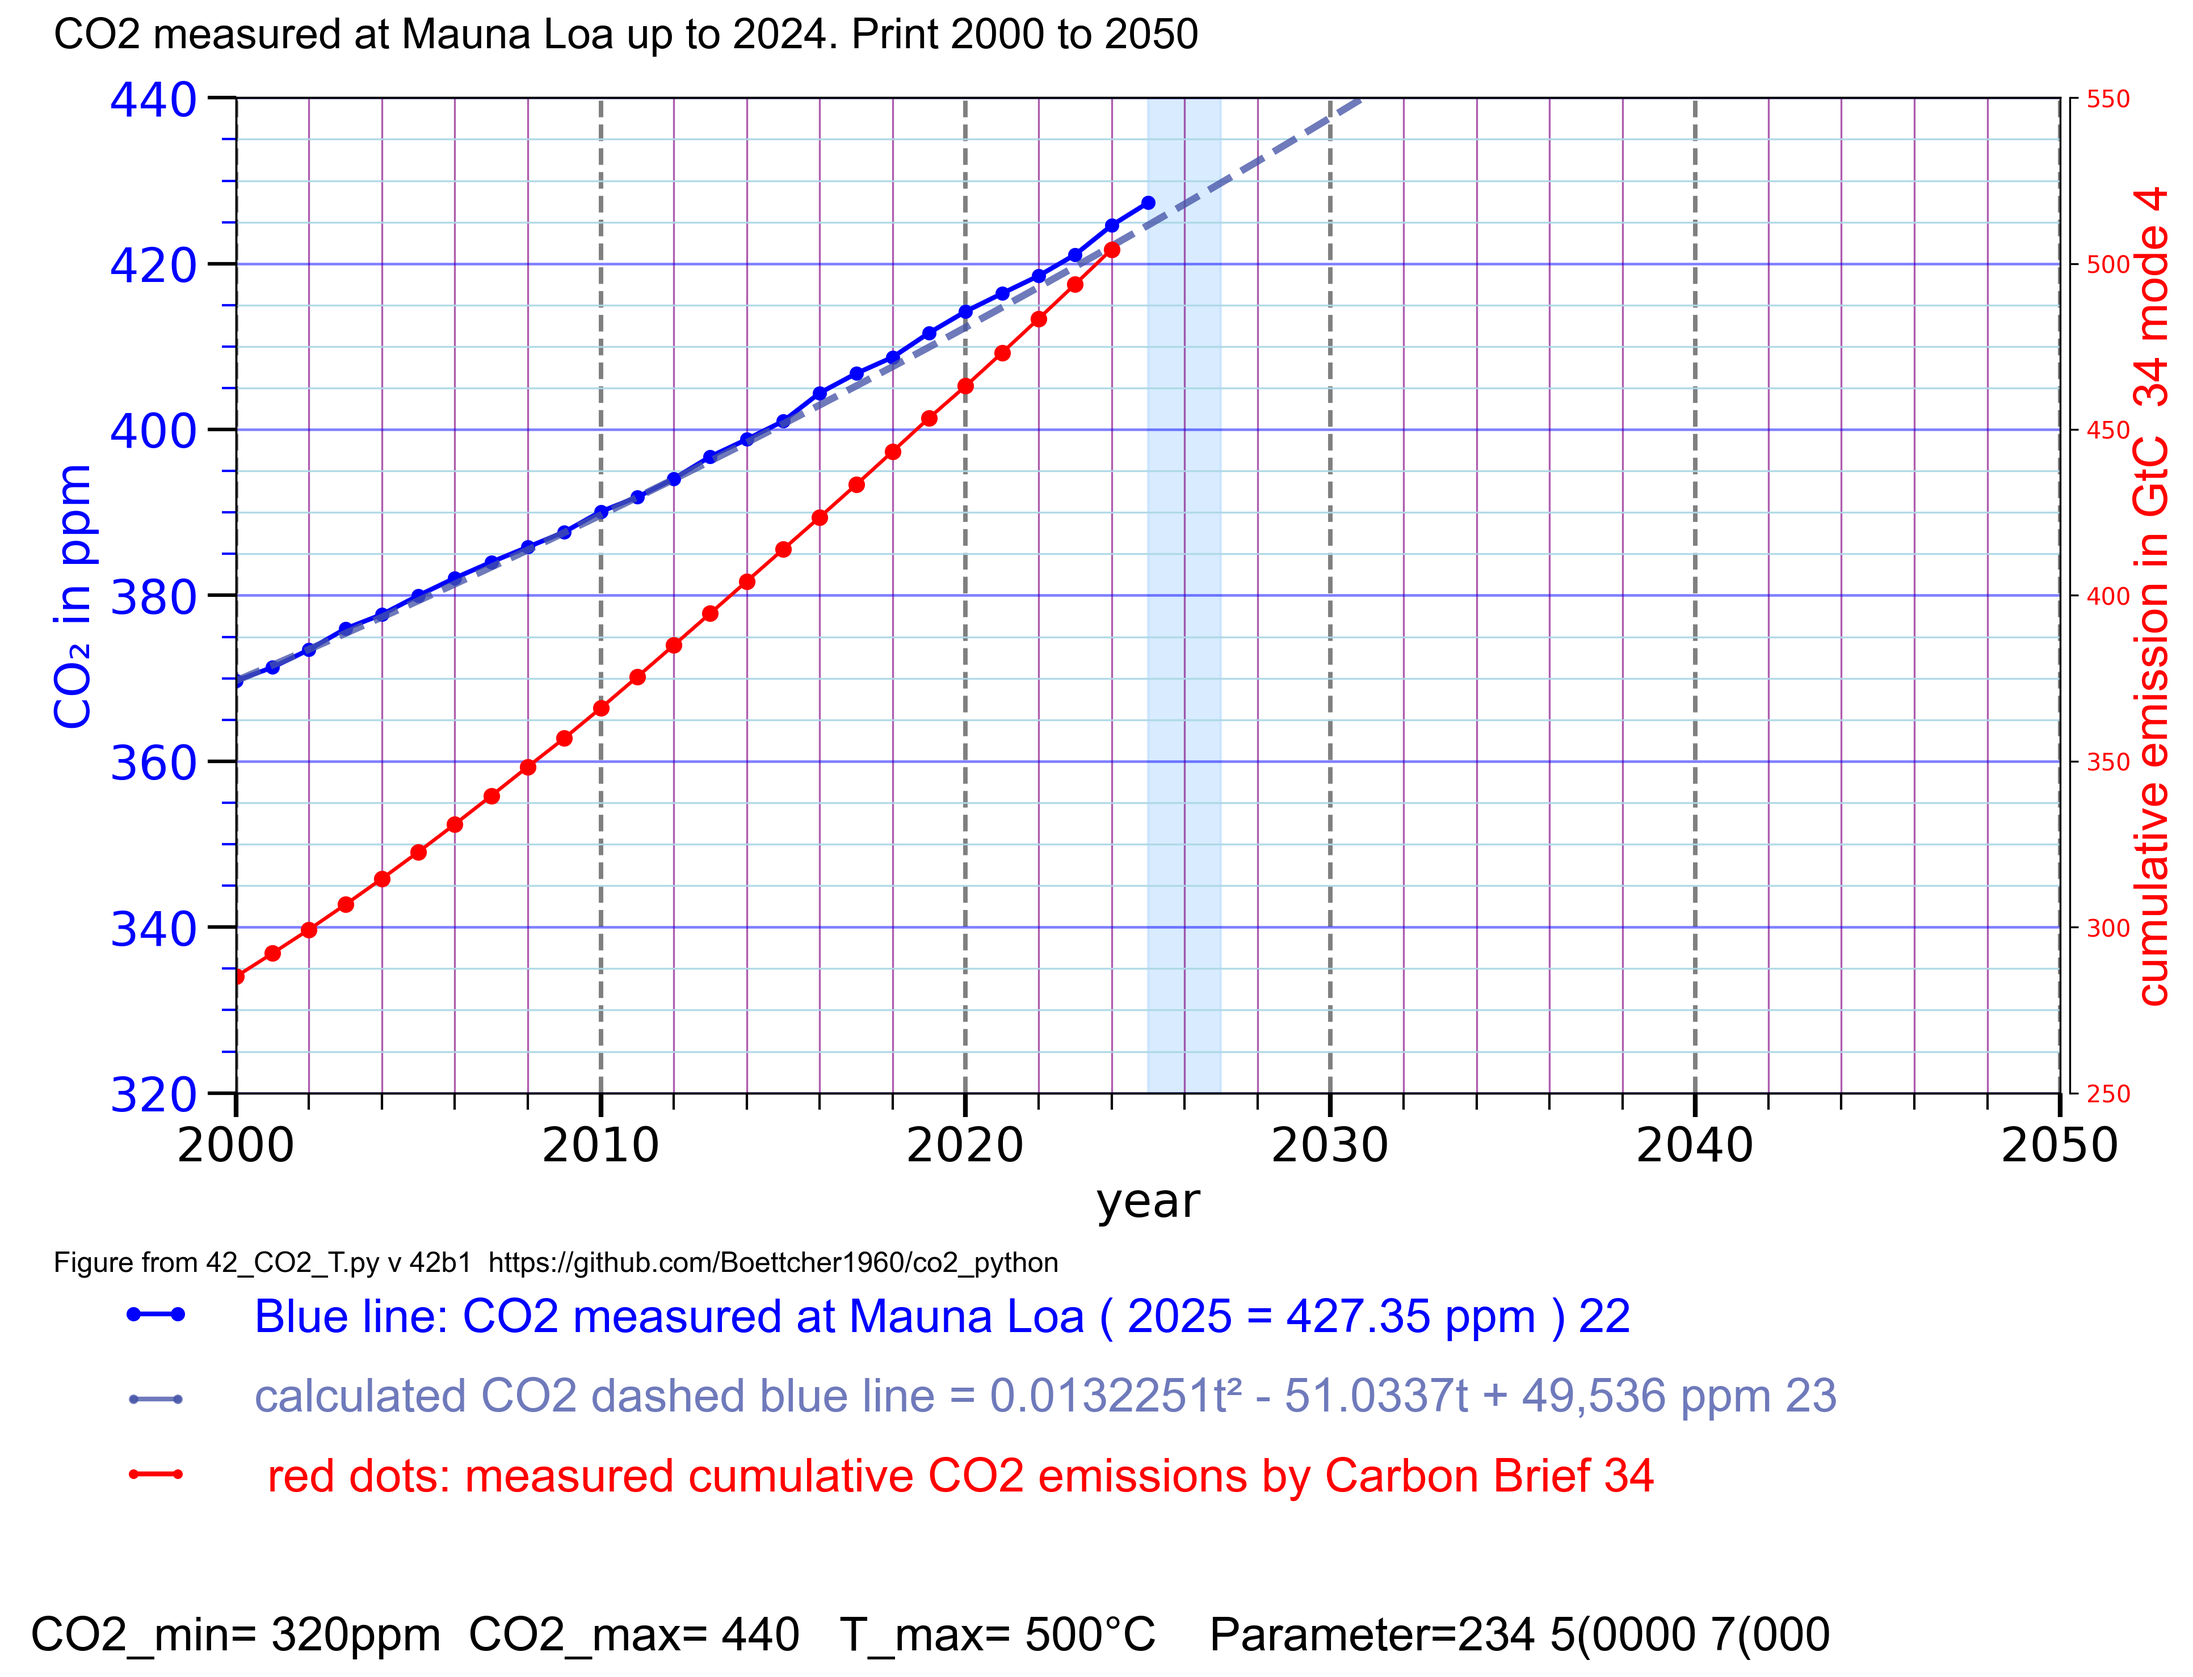
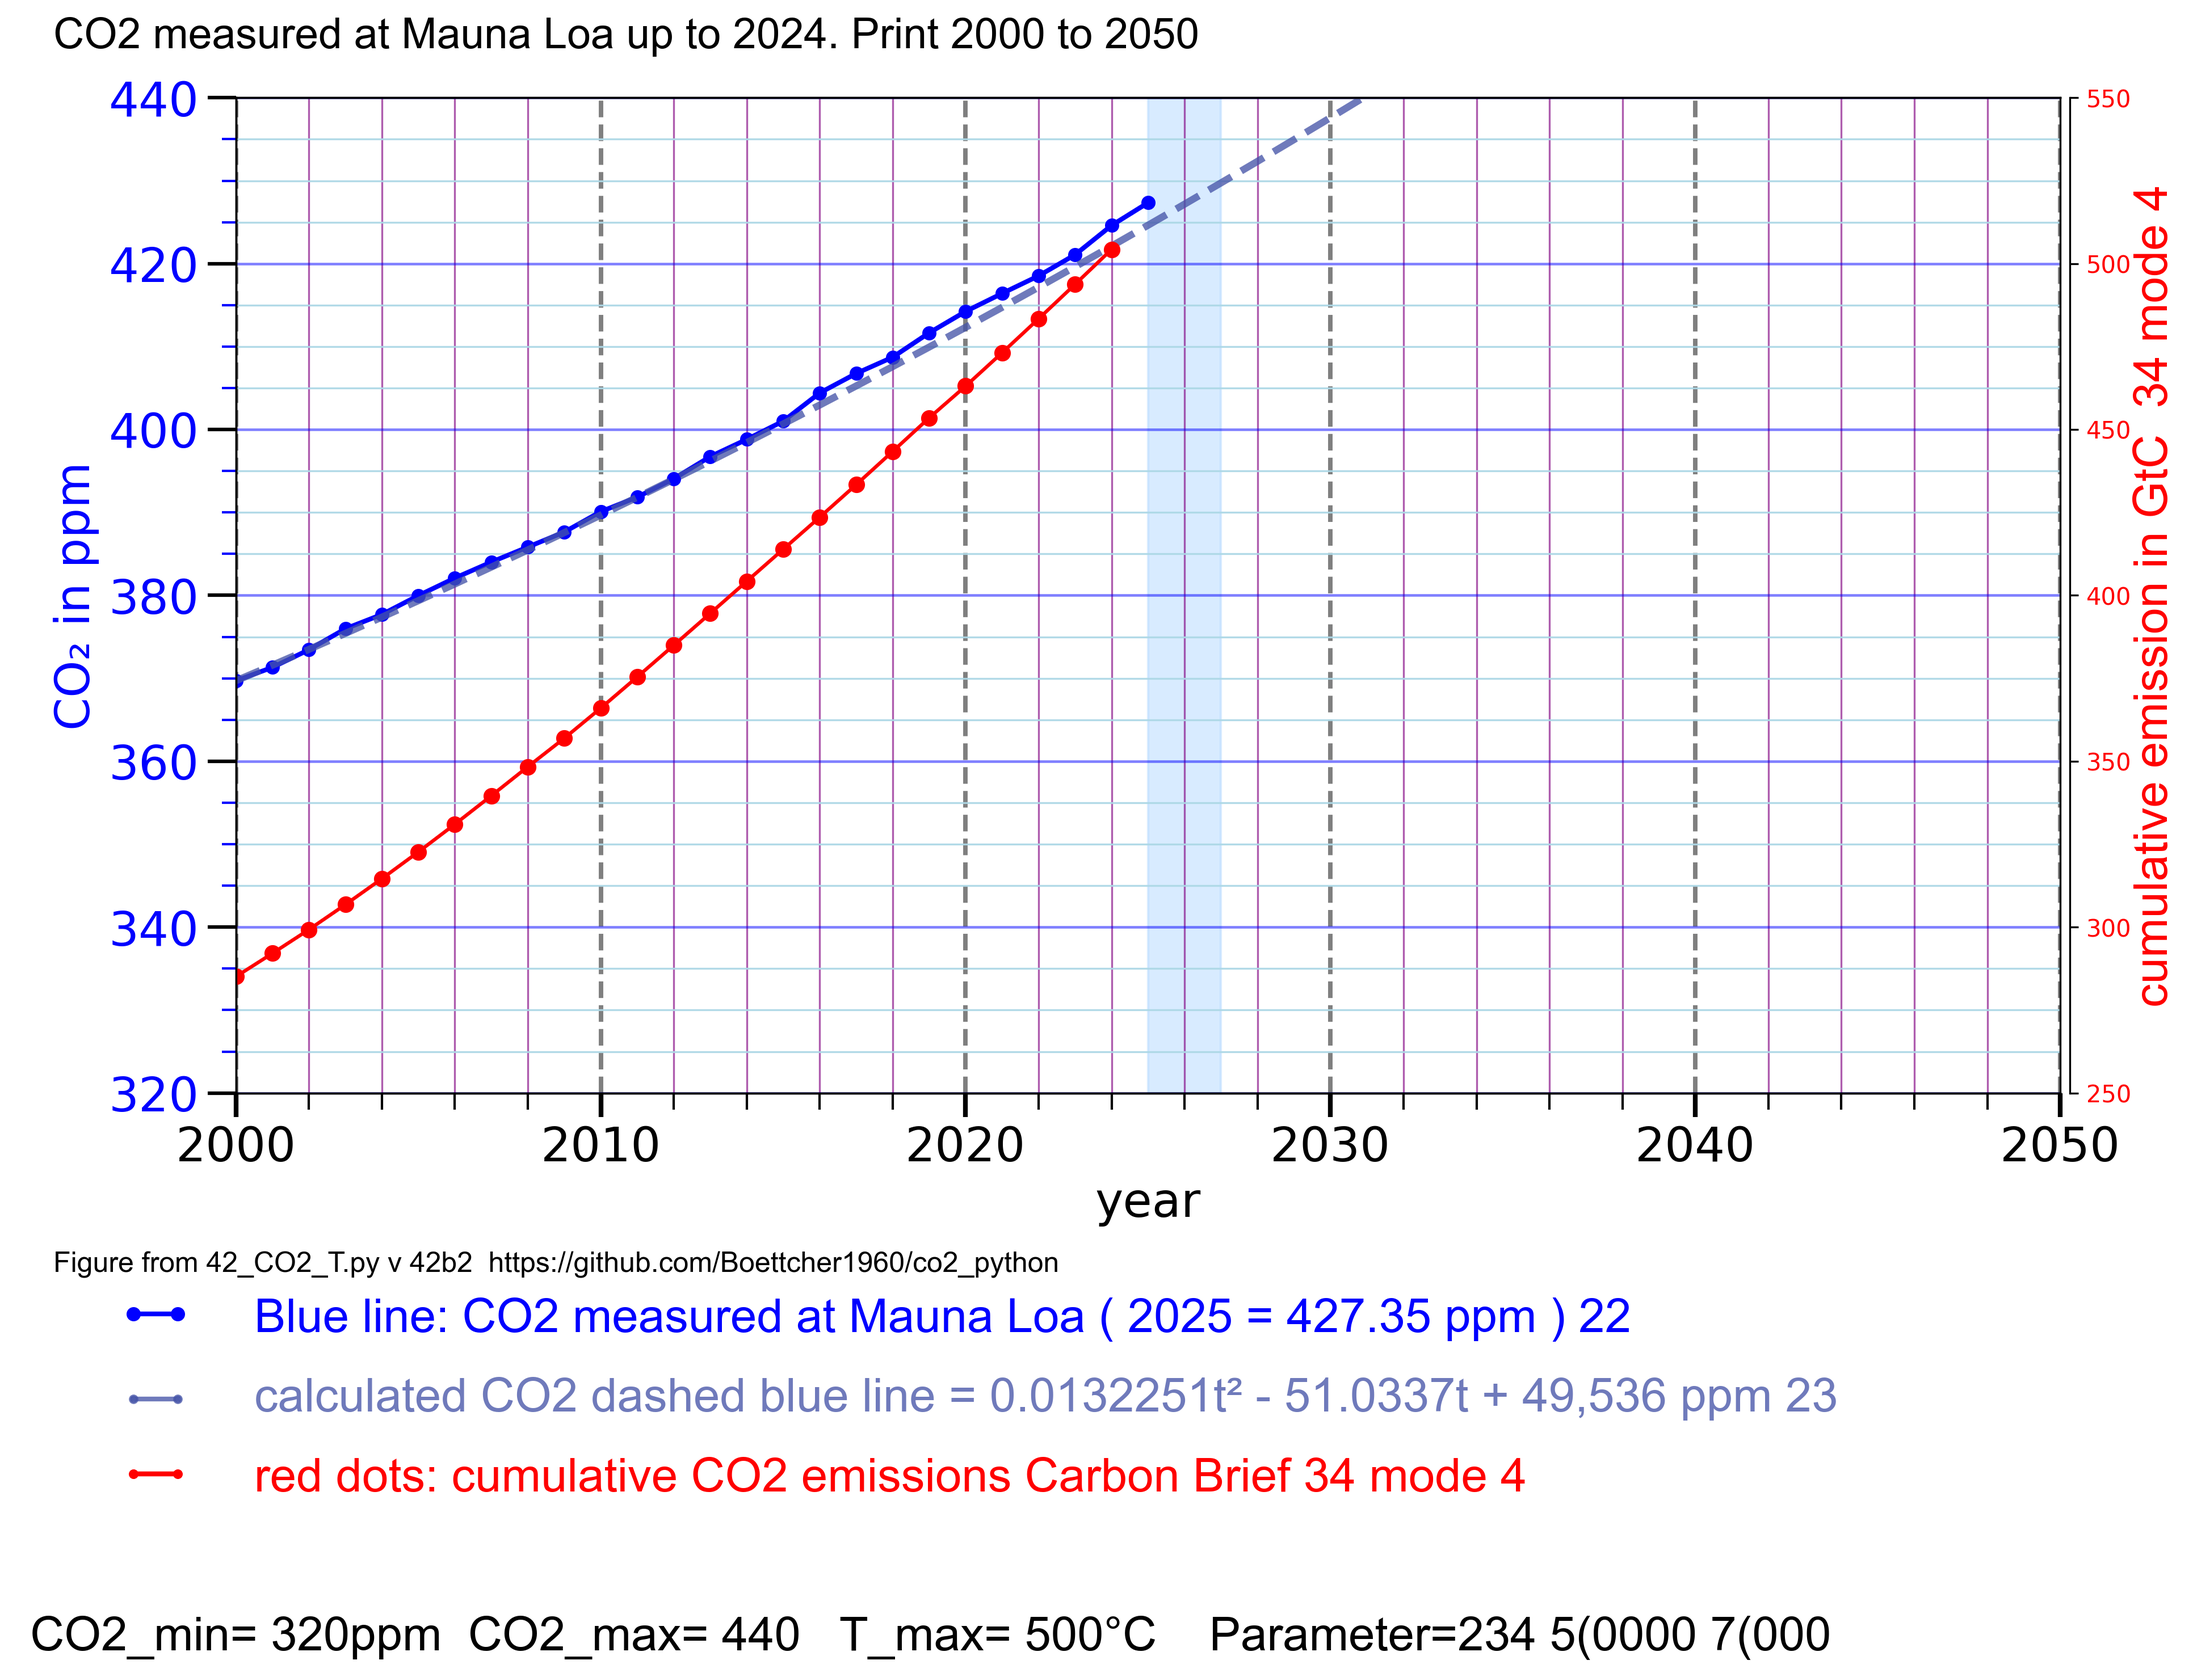
v = "42b2"

Changed region(s): [[0.1242, 0.8714, 0.7453, 0.9026]]

diff --git a/42_CO2_T.py b/42_CO2_T.py
@@ -1,5 +1,5 @@
 # 42_CO2_T.py 
-v = "42b1"
+v = "42b2"
 # Thomas Boettcher
 # part 1 configure 
 # part 2.2 plot CO2 Mauna Loa
@@ -217,13 +217,14 @@ if plot23_Glen_CO2 > 0:
 # 3.4.0 Entity,Code,Year,Cumulat
 #       World,OWID_WRL,1750,9305937
 if plot34_CO2_emission > 0:
-   print34_text =" red dots: measured cumulative CO2 emissions by Carbon Brief 34"
+   print34_text ="red dots: cumulative CO2 emissions Carbon Brief 34 mode "
    # plot34_CO2_emission_A = 1, read self made csv 2000 GtCO2
    # plot34_CO2_emission_A = 2, read csv 2000 000 000 000 tCO2
    # plot34_CO2_emission_A = 3, read csv 2000 GtCO2 csv_34a3_cumulative-co-emissions.csv 1750 to 2024
    # plot34_CO2_emission_A = 4, read csv 2000 GtCO2
    # plot34_CO2_emission_A = 5
    plot34_CO2_emission_A = 4
+   print34_text = print34_text + str(plot34_CO2_emission_A)
    # 3.4.1
    if plot34_CO2_emission_A == 1:
       df34a = pd.read_csv("csv_34a1_co2_world_generated.csv") # processed file
@@ -291,10 +292,6 @@ if plot34_CO2_emission > 0:
       # save CSV
       # co2_sum_world.to_csv("co2_sum_world.csv", index=False)
       #end 3.4
-# years = df["Year34"]
-# cumulative_gt = df["GCumulat"]
-
-
 
 # no part 4
 
